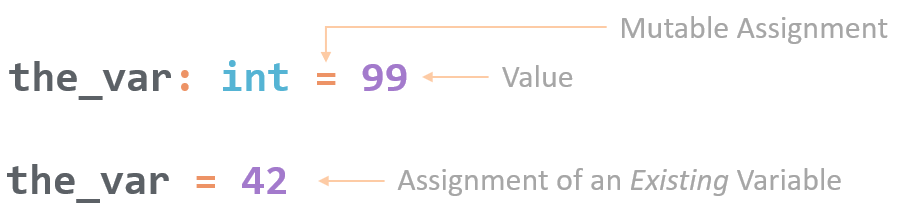
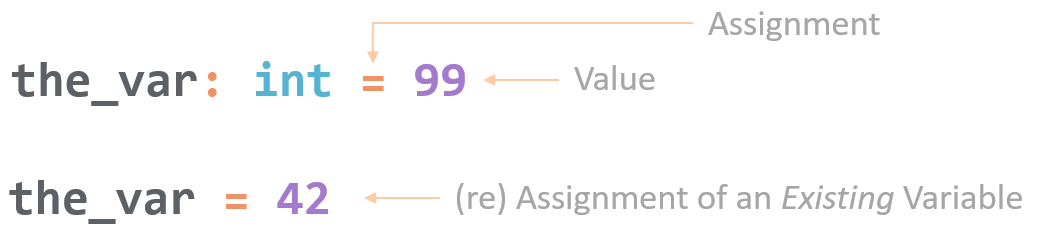
pickups

diff --git a/book/01_basics/02_program_structure.md b/book/01_basics/02_program_structure.md
@@ -1,16 +1,16 @@
 ## Chapter II: Program Structure
 
-In this chapter we will look at the structure of a package, how declarations & assignments work, and the rules of scopes. by the end of the chapter We'll have a solid lay of the land as to what makes a program. In the subsequent chapters we'll begin to flesh out the types and control flow.
+In this chapter we will look at the structure of a package, how declarations and assignments work, and the rules of scopes. by the end of the chapter We'll have a solid grasp of the structure a program. In the subsequent chapters we'll flesh out the types and control flow, making that program capable of doing useful work.
 
-### Attributes, Directives, Tags & Build-Directives
+### Attributes, Directives, Tags and Build-Directives
 
-I would prefer to wait until later to introduce modifiers, but it seems best to immediately prime you to them so that they can be introduced throughout the book as-encountered rather than in a group at the end as would be typical of a reference.
+I would prefer to wait until later to introduce modifiers, but it seems best to immediately prime you to them so that they can be introduced throughout the book as-encountered rather than at the end of the book where they have little context.
 
-Tags, Attributes & Directives are modifiers to existing language keywords and features. The principal reason they exist is to reduce the keyword surface area of the language.
+Tags, Attributes and Directives are modifiers to existing language keywords and features. The principal reason they exist is to reduce the keyword surface area of the language, keeping the language small and memorable. Some of these are merely syntactic sugar, most have specialty use cases.
 
 #### Attributes
 
-Attributes are used to modify the compilation details of declarations. There are builtin attributes, and custom user-defined attributes. Builtin attributes will be introduced throughout the book, custom attributes are dealt with in **Chapter X: Metaprogramming**. The syntax for attributes is prefixed with an at symbol (`@`) and followed by a single attribute identifier. If the attribute has arguments, it is wrapped in parens. Multiple attributes also require parens, comma seperated. Attributes are always declared above a declaration.
+Attributes are used to modify the compilation details of declarations. There are builtin attributes, and custom user-defined attributes. Builtin attributes will be introduced throughout the book, custom attributes are dealt with in **Chapter X: Metaprogramming**. The syntax for attributes is prefixed with an at symbol (`@`) and followed by a single attribute identifier. If the attribute has arguments, it is wrapped in parenthesis (`()`). Multiple attributes also require parenthesis, and are comma seperated. Attributes are always declared in the line above a declaration. The following sample shows applying three separate attributes to a declaration, one having an argument.
 
 ```odin
 // Multiple Attributes on a Declaration:
@@ -23,7 +23,7 @@ foo: int
 Directives modify the behavior of language features. The syntax for directives is hash (`#`) followed by the directive's name. Directives are placed inline, typically before an argument, but there are exceptions which will shown as encountered.
 
 ```odin
-// Directive reversing a loop:
+// Directive reversing the order of transversal of a loop:
 #reverse for val in the_slice {
 	// ...
 }
@@ -31,7 +31,7 @@ Directives modify the behavior of language features. The syntax for directives i
 
 #### Build Tags
 
-Build tags may be found on the first line of a file, preceding the package declaration. They are a line-comment followed by a plus sign (`//+`), followed by the tag's identifier, with no spaces.
+Build tags may be found on the first line of a file, preceding the package declaration. They are a line-comment followed by a plus sign (`//+`), followed by the tag's identifier, with no spaces. The following sample build tags make all identifiers private to a package, and states that this file only builds on `linux`.
 
 ```odin
 //+private, +build linux
@@ -42,27 +42,30 @@ package foo
 
 `package foo`
 
-The package declaration is the first declaration in an Odin file. A package in Odin is a folder in the most literal sense. All .odin files within the same folder must be in the same package, and all symbols are shared across that scope\*. The languages package-centric design results in most Odin projects being far flatter structurally than you might find in other languages.
+The package declaration is the first declaration in an Odin file. A package in Odin is a folder in the most literal sense. All .odin files within the same folder must be in the same package ands share the same package _Identifier_. All _Symbols_ are shared across that scope\*. The language's package-centric design results in most Odin projects being far flatter structurally than you might find in other languages.
+
+\* footnote: Identifiers, Symbols, and Scopes covered in **Section X**
 
 #### Design Tradeoff
 
-Historically, there was only the global scope. This led to the need to prefix entities with some pseudo-namespace, which is admittedly less than ideal. Scoped namespacing was the obvious solution to this, and has been implemented widely amongst languages. The resulting effect however has been more detrimental than it was helpful. Given the tools to do so, developers tend to overly taxonomize thier projects, such that there ends up more abstraction than actual code. Odin elects to partially-return to the pre-namespace days to get away from the knock-on effects caused by it. The cure is postulated to be worse than the disease.
+Historically, there was only the global scope. **todo: do more research here, who did namespaces when, i suspect global+proc scopes was nearly always a thing?** This led to the need to prefix entities with some pseudo-namespace, which is admittedly less than ideal. Scoped namespacing was the obvious solution to this, and has been implemented widely amongst languages. The resulting effect had some unintended side-effects that Odin argues are more detrimental than helpful. The observation is that humans are quite fond of catagorizing and sorting things (applying taxonomies). Few are capable of doing so objectively though, so the tendancy is to have a subjective, arbritrary and _deep_ taxonomy of a program. This often leads to having more abstraction code than actual problem-solving code. Odin elects to partially-return to the pre-namespace days to get away from the knock-on effects caused by it. The cure is postulated to be worse than the disease.
 
-The low-friction organizational path in Odin is to have larger files in a relatively flat structure, only splitting into packages when functionality demonstrates it is truly insulated from cross-cutting concerns.
+The low-friction path to code-organization in Odin is to have larger files in a relatively flat structure, only splitting into packages when functionality demonstrates it is truly insulated from cross-cutting concerns and warrants the subdivision. Early on, most new users to Odin attempt to bring their habits of small files across many namespaces to Odin, it is far more pleasant to categorize later in the development process than sooner with this language.
 
-Multiple packages should only be made when there are clear scopes of work with no interdependance on the other packages. For example `package png_loader` might be seperate from `package the_game`. The png_loader has no relation to a game, it simply loads a png into a buffer, and hands it off. The game may then import the png_loader and utilize it. If however the png_loader's load procedure needed to be given a game-asset and it loads into that asset, now the two packages need to know about each other's types and cannot be directly imported to each other.
+As an example of package subdivision, `package png_loader` might be seperate from `package the_game`. The `png_loader` has no relation to a game, it simply loads a png into a buffer structure (that it defines in it's package), and hands it off. The game may then import the `png_loader` and utilize it. If however the `png_loader`'s `load` procedure needed to be given a `Game_Asset` structure and it loads into that asset, now the two packages need to know about each other's types and cannot be directly imported to each other.
 
-If packages need knowledge of shared types (eg A imports B, and B imports A), the strategy to address the cyclic imports would be to make a third package, `shared`. A then imports shared and B imports shared, the cyclic dependancy is resolved. When this is used, the types are only visible via accessing through the shared name or alias, eg `shared.value_type`. This can be burdonsome if shared contains a large number of types. An alias file could be used in each consumer package, which aliases out the shared packages types into the other packages, but this needs done for each package using shared. For example:
+If packages need knowledge of shared types (eg A imports B, and B imports A), the strategy to address the cyclic imports would be to make a third package, say `shared`. `A` then imports `shared` and `B` imports `shared`, the cyclic dependancy is resolved. When this is used, the types are only visible via accessing through the shared name or alias, eg `shared.a_member_of_shared`. This can be burdonsome if shared contains a large number of types or procedures. An alias file could be used in each consumer package, which aliases out the shared packages types into the other packages, but this needs to be done for each package using shared. For example:
 
 ```odin
 package A
 import "../shared"
-foo :: shared.foo   // <- Alias foo across the current package to not have to type shared.foo all the time
+// Redeclare foo to be accessible across the package-scope without the shared prefix
+foo :: shared.foo
 ```
 
 #### Package Requirements
 
--   Must be on the first line of the file, except when build tags are present.
+-   Must be the first declaration of the file (e.g. not a comment or blank line)
 -   A package may be named any valid Identifier.
 -   All `.odin` files within a directory must share the same package name.
 -   All imports must be acyclic
@@ -80,15 +83,18 @@ The first line of the file can contain build directives or a file-wide attribute
 import "./shared"
 import "../../Odin/core/fmt"
 import la "core:math/linalg"
+import "core:math/bits"
 ```
 
-Import statements are used to bring packages into _scope_ for the _current_ file. A valid Identifier may precede the _relative_ path of the package as an alias. In the example above `linalg` is aliased to be `la`. Note that because import statements use relative paths, the default name of an imported package is that of the _final_ folder containing it, _not_ the package's name or the full path. It is convention to keep the package name and folder name the same, but is not required.
+Import statements are used to bring packages into _scope_ for the _current_ file. A valid Identifier\* may precede the _relative_ path of the package as an alias. In the example above `linalg` is aliased to be `la`. Note that because import statements use relative paths, the default name of an imported package is that of the _final_ folder containing it, _not_ the package's name or the path. In importing the `bits` package above, the default alias is `bits` and _not_ `math/bits` which is not valid syntax. It is convention to keep the package name and folder name the same, but is not required.
+
+\*footnote: Identifiers covered in Section x
 
 #### Collections
 
-The core & vendor libraries are located adjacent to the compiler. It would be very inconvienent to attempt to relative-path into the correct core library from any arbitrary package on your machine. As such, Odin provides the concept of Collections. A collection most fundamentally may be thought of as a symlink to a directory. Collection syntax is a collection-name followed by a colon (`:`), the `core:` in the linalg import is accesing the core collection. From this point, you're in a directory, and standard pathing applies as if it were a relative path.
+The `core` and `vendor` collections are located adjacent to the compiler in a normal installation. It would be very inconvienent to attempt to relative-path into the correct `core` package from any arbitrary folder/package on your machine. As such, Odin provides the concept of Collections. A collection most fundamentally may be thought of as a symbolic link (symlink) to a directory. Collection syntax is a collection-name followed by a colon (`:`), the `core:` in the linalg import is accesing the `core` collection. From this point, you're in a directory, and standard pathing applies as if it were a relative path.
 
-User defined collections are produced by a compiler flag `-collection:<name>=<filepath>`. All folders within the named folder become accessible in the same fashion as the core libraries would be.
+User defined collections are produced by a compiler flag `-collection:<name>=<filepath>`. All folders within the named folder become accessible in the same fashion as the `core`.
 
 Import statements are visible to the file-scope.
 

diff --git a/book/01_basics/02b_declarations.md b/book/01_basics/02b_declarations.md
@@ -1,10 +1,10 @@
-### Declaration & Assignment
+### Declaration and Assignment
 
 Fundamental to programming is the ability to set and manipulate variables. Odin's declaration and assignment syntax places emphasis on the variable names rather than the variable _kind_ (`var foo` / `const foo`) from some languages, or the _type_ as seen in C-like languages (`int foo;`).
 
 #### Declarations
 
-A variable declaration sets an _Identifier_ as some specific _Type_, and makes it available for the programmer's use for the remainder of the _Scope_ that it was declared in.
+A variable declaration sets an _Identifier_ to have some specific _Type_, and makes it available for the programmer's use for the remainder of the _Scope_ that it was declared in.
 
 ![Declaration Syntax](./images/02_00_declaration.png "Declaration Syntax")
 
